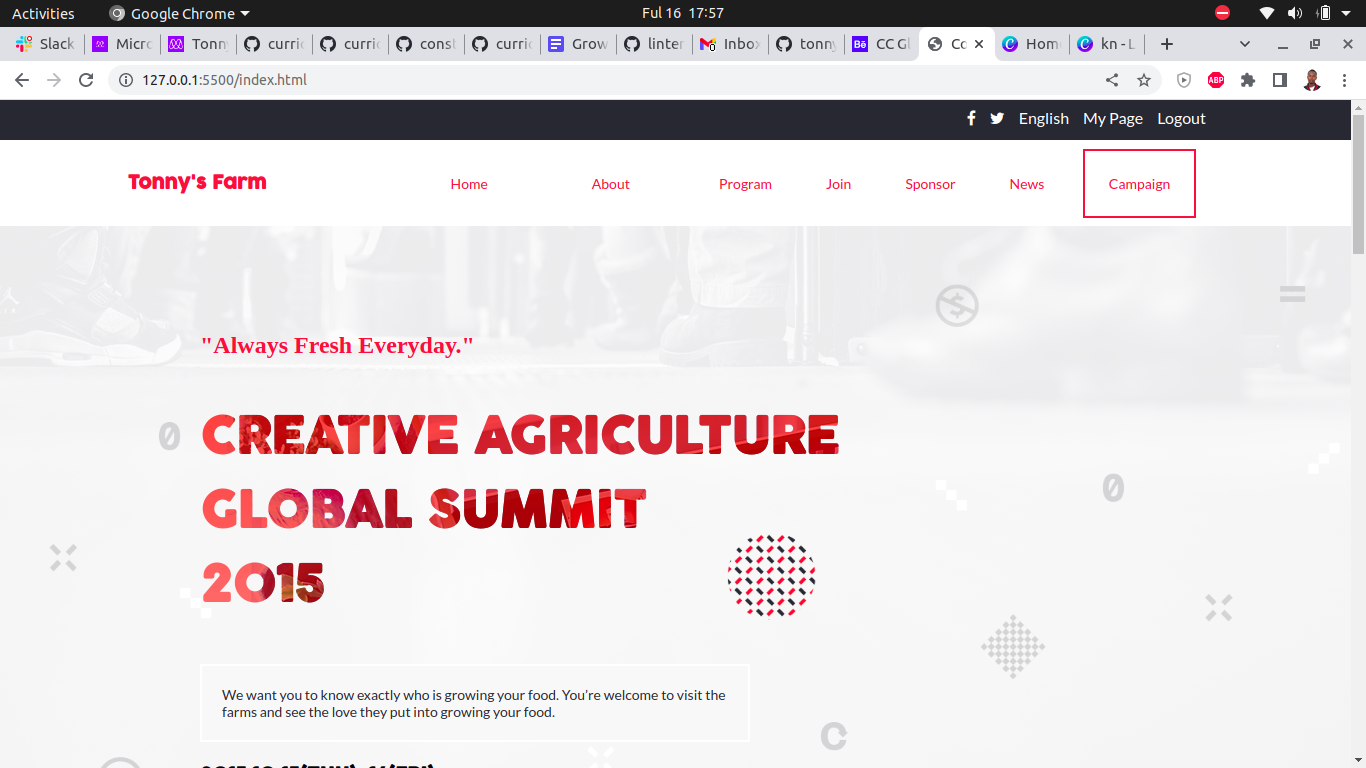
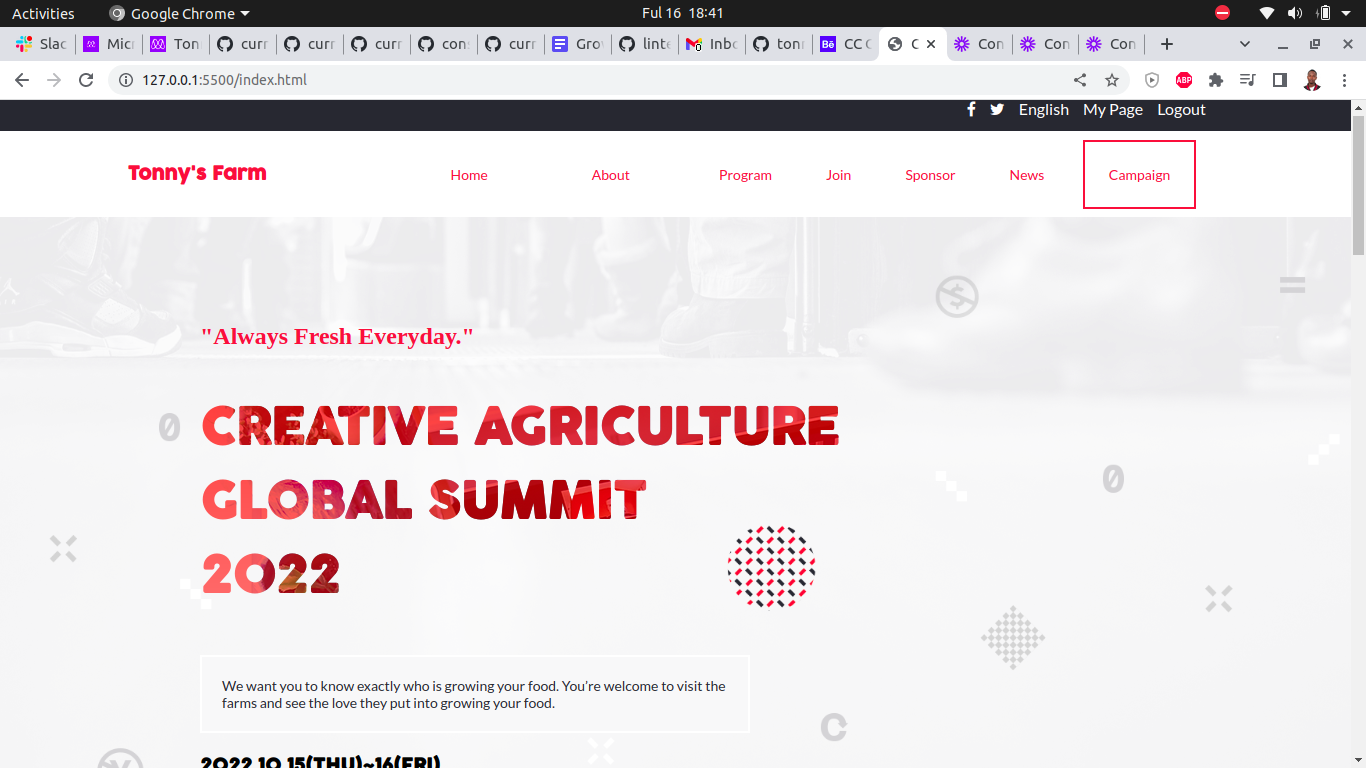
add images & fix headings

diff --git a/index.html b/index.html
@@ -45,9 +45,9 @@
 
         <div class="landing-content">
             <h1 class="heading1">"Always Fresh Everyday." </h1>
-            <h2 class="heading2">CREATIVE Agriculture <br>GLOBAL SUMMIT <br>2015</h2>
+            <h2 class="heading2">CREATIVE Agriculture <br>GLOBAL SUMMIT <br>2022</h2>
             <p class="heading-text">We want you to know exactly who is growing your food. You’re welcome to visit the farms and see the love they put into growing your food.</p>
-            <h3 class="heading-date">2015.10.15(THU)~16(FRI)</h3>
+            <h3 class="heading-date">2022.10.15(THU)~16(FRI)</h3>
             <p>@ National Museum of Korea, Art Center Nabi and more</p>
         </div>
     </section>
@@ -84,7 +84,7 @@
                 <p>Listen to the speaker from various countries about sharing and opening</p>
             </div>
         </div>
-        <button class="join-Button" type="button">Join Agriculture Summit 2015</button>
+        <button class="join-Button" type="button">Join Agriculture Summit 2022</button>
         <div class="prg1">
             <a class="program1">SEE THE WHOLE PROGRAM</a>
             <hr class="underline1">
@@ -181,7 +181,7 @@
         <div class="footer-content">
             <img class="footer-img" src="./images/kn (1).png" alt="logo">
             <div class="footer-text">
-                <p>Copyright © 2015 Tonny-s farm. Some rights reserved.</p>
+                <p>Copyright © 2022 Tonny-s farm. Some rights reserved.</p>
                 <p class="licence-text">This work is licensed under a <a rel="license" href="./LICENSE">License</a></p>
             </div>
         </div>

diff --git a/about.html b/about.html
@@ -41,15 +41,15 @@
     <section class="landing">
         <div class="about-landing-content">
             <h1 class="heading1 about-none">"Always Fresh Everyday" </h1>
-            <h2 class="heading2">CREATIVE Agriculture <br>GLOBAL SUMMIT 2015</h2>
+            <h2 class="heading2">CREATIVE Agriculture <br>GLOBAL SUMMIT 2022</h2>
             <p class="about-big">We want you to know exactly who is growing your food. You’re welcome to visit the farms and see the love they put into growing your food.</p>
-            <p class="about-small">Please contact us per Email any further questions about CREATIVE Agriculture Global Summit 2015</p>
+            <p class="about-small">Please contact us per Email any further questions about CREATIVE Agriculture Global Summit 2022</p>
             <p class="ccsummit"><b>tonykanyingah@gmail.com</b></p>
         </div>
     </section>
     <section class="about-page1">
         <div class="prg1">
-            <h3 class="about-program">CREATIVE Agriculture Global Summit 2015 Logo</h3>
+            <h3 class="about-program">CREATIVE Agriculture Global Summit 2022</h3>
             <hr class="underline">
         </div>
         <div>
